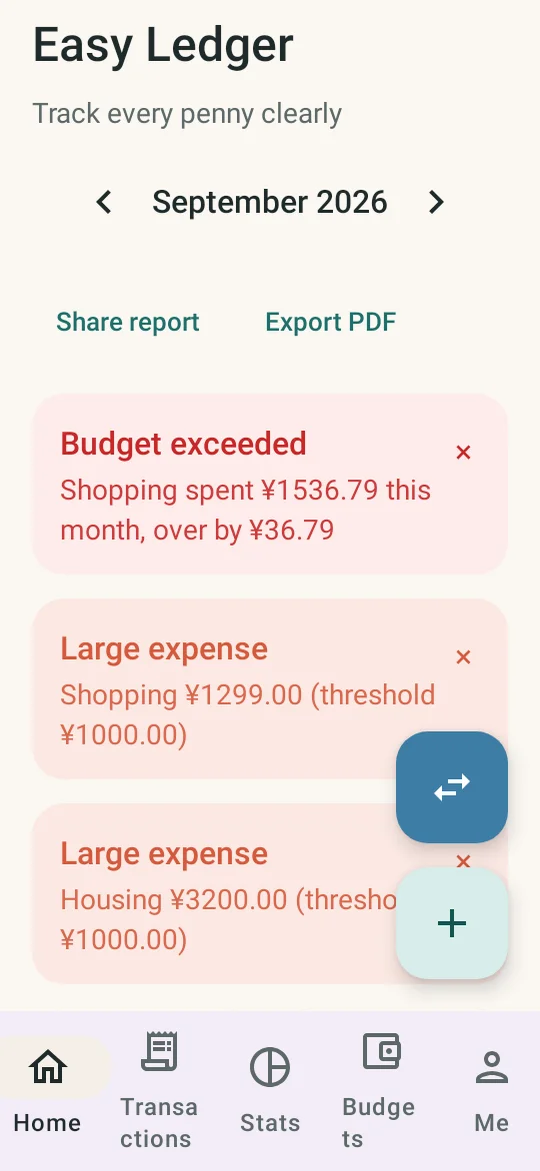
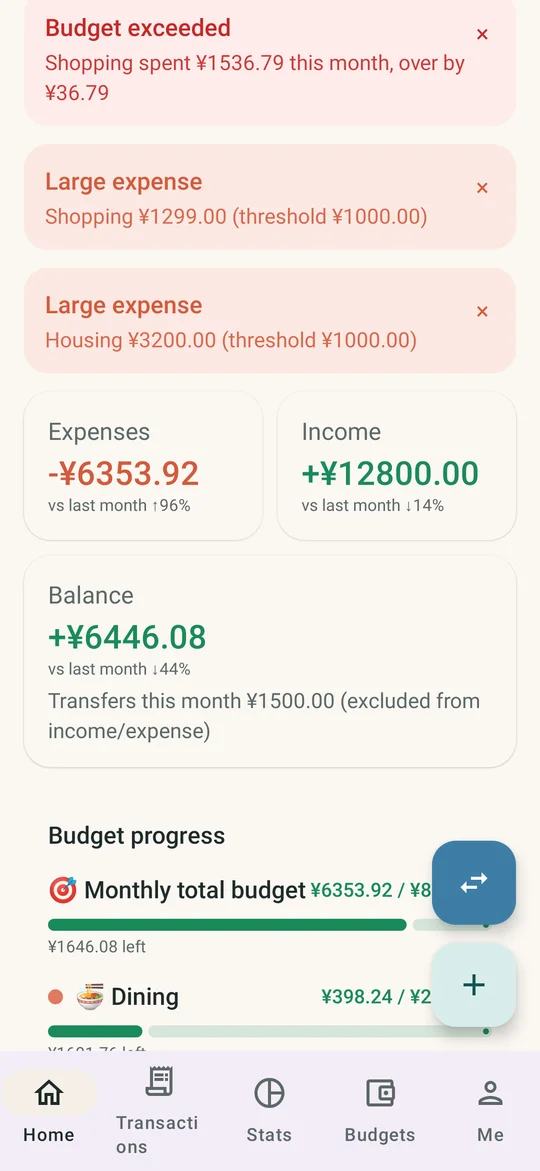
fix(site): qingjizhang screenshot parity for home/stats and demo totals
Re-capture all 15 zh/dark, en/light, and en/dark WebPs with Roborazzi
scroll framing so home shows summary/budget and stats shows the category
pie. Align seeded September demo totals with legacy zh/light (6353.92, 35
entries) via verified seeder adjustments in the capture harness. Bump
IMG_VER and manifest cache bust.

diff --git a/site/index.html b/site/index.html
@@ -415,7 +415,7 @@
                       <div class="phone-frame screenshot-phone">
                         <div class="phone-notch"><span></span></div>
                         <div class="phone-screen">
-                          <img src="/assets/screens/qingjizhang/01-home.webp?v=6" width="540" height="1171" loading="lazy" data-i18n-alt="qjz.hero.gallery.s01.alt" alt="轻记账首页，本月收支结余与预算概览" />
+                          <img src="/assets/screens/qingjizhang/01-home.webp?v=7" width="540" height="1171" loading="lazy" data-i18n-alt="qjz.hero.gallery.s01.alt" alt="轻记账首页，本月收支结余与预算概览" />
                         </div>
                       </div>
                       <figcaption class="screenshot-caption" data-i18n="qjz.hero.gallery.s01.caption">首页 · 本月收支与预算</figcaption>
@@ -426,7 +426,7 @@
                       <div class="phone-frame screenshot-phone">
                         <div class="phone-notch"><span></span></div>
                         <div class="phone-screen">
-                          <img src="/assets/screens/qingjizhang/02-entries.webp?v=6" width="540" height="1171" loading="lazy" data-i18n-alt="qjz.hero.gallery.s02.alt" alt="轻记账流水明细，搜索与筛选" />
+                          <img src="/assets/screens/qingjizhang/02-entries.webp?v=7" width="540" height="1171" loading="lazy" data-i18n-alt="qjz.hero.gallery.s02.alt" alt="轻记账流水明细，搜索与筛选" />
                         </div>
                       </div>
                       <figcaption class="screenshot-caption" data-i18n="qjz.hero.gallery.s02.caption">明细 · 流水与筛选</figcaption>
@@ -437,7 +437,7 @@
                       <div class="phone-frame screenshot-phone">
                         <div class="phone-notch"><span></span></div>
                         <div class="phone-screen">
-                          <img src="/assets/screens/qingjizhang/03-stats.webp?v=6" width="540" height="1171" loading="lazy" data-i18n-alt="qjz.hero.gallery.s03.alt" alt="轻记账统计页，分类饼图与趋势" />
+                          <img src="/assets/screens/qingjizhang/03-stats.webp?v=7" width="540" height="1171" loading="lazy" data-i18n-alt="qjz.hero.gallery.s03.alt" alt="轻记账统计页，分类饼图与趋势" />
                         </div>
                       </div>
                       <figcaption class="screenshot-caption" data-i18n="qjz.hero.gallery.s03.caption">统计 · 饼图与 12 个月趋势</figcaption>
@@ -448,7 +448,7 @@
                       <div class="phone-frame screenshot-phone">
                         <div class="phone-notch"><span></span></div>
                         <div class="phone-screen">
-                          <img src="/assets/screens/qingjizhang/04-budget.webp?v=6" width="540" height="1171" loading="lazy" data-i18n-alt="qjz.hero.gallery.s04.alt" alt="轻记账预算页，进度与超支提醒" />
+                          <img src="/assets/screens/qingjizhang/04-budget.webp?v=7" width="540" height="1171" loading="lazy" data-i18n-alt="qjz.hero.gallery.s04.alt" alt="轻记账预算页，进度与超支提醒" />
                         </div>
                       </div>
                       <figcaption class="screenshot-caption" data-i18n="qjz.hero.gallery.s04.caption">预算 · 80% 警告与超支</figcaption>
@@ -459,7 +459,7 @@
                       <div class="phone-frame screenshot-phone">
                         <div class="phone-notch"><span></span></div>
                         <div class="phone-screen">
-                          <img src="/assets/screens/qingjizhang/05-mine.webp?v=6" width="540" height="1171" loading="lazy" data-i18n-alt="qjz.hero.gallery.s05.alt" alt="轻记账我的页面，账户分类与设置" />
+                          <img src="/assets/screens/qingjizhang/05-mine.webp?v=7" width="540" height="1171" loading="lazy" data-i18n-alt="qjz.hero.gallery.s05.alt" alt="轻记账我的页面，账户分类与设置" />
                         </div>
                       </div>
                       <figcaption class="screenshot-caption" data-i18n="qjz.hero.gallery.s05.caption">我的 · 账户、分类与设置</figcaption>
@@ -715,7 +715,7 @@
     </footer>
     <script src="/js/translations.js?v=5" defer></script>
     <script src="/js/site.js?v=5" defer></script>
-    <script src="/js/screens-lang.js?v=4" defer></script>
+    <script src="/js/screens-lang.js?v=5" defer></script>
     <script src="/js/nav.js?v=5" defer></script>
     <script src="/js/carousel.js?v=3" defer></script>
     <script src="/js/github-meta.js?v=3" defer></script>

diff --git a/site/js/screens-lang.js b/site/js/screens-lang.js
@@ -3,8 +3,8 @@
   "use strict";
 
   var SCREEN_ROOT = "/assets/screens/";
-  var MANIFEST_URL = "/assets/screens/manifest.json?v=2";
-  var IMG_VER = "6";
+  var MANIFEST_URL = "/assets/screens/manifest.json?v=3";
+  var IMG_VER = "7";
 
   var manifest = null;
   var manifestReady = null;
